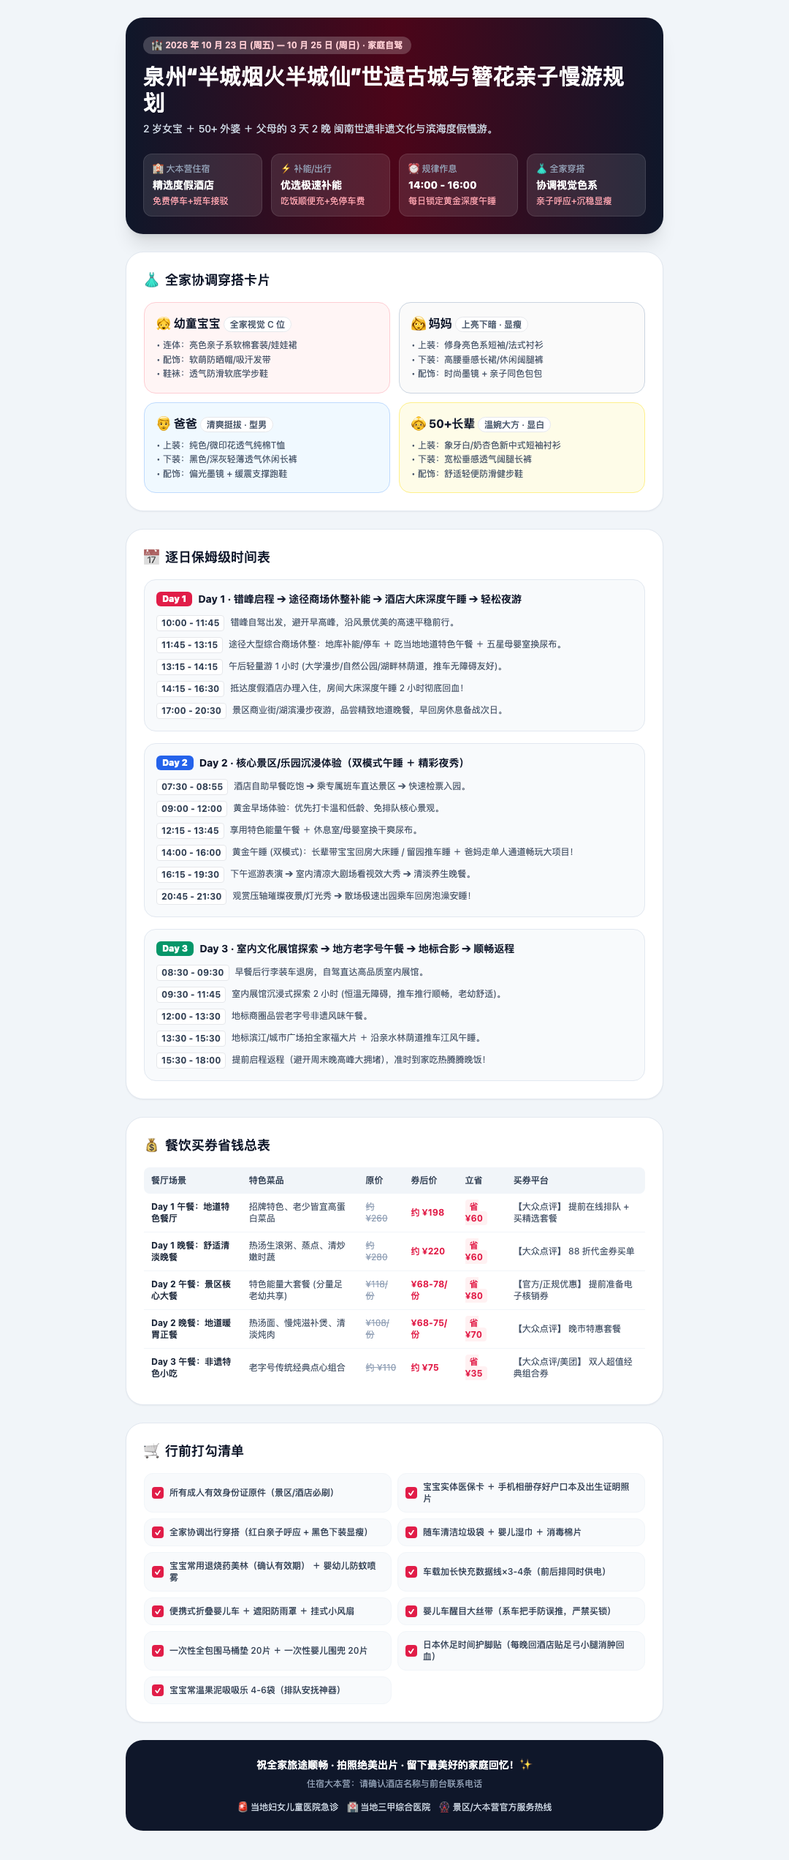
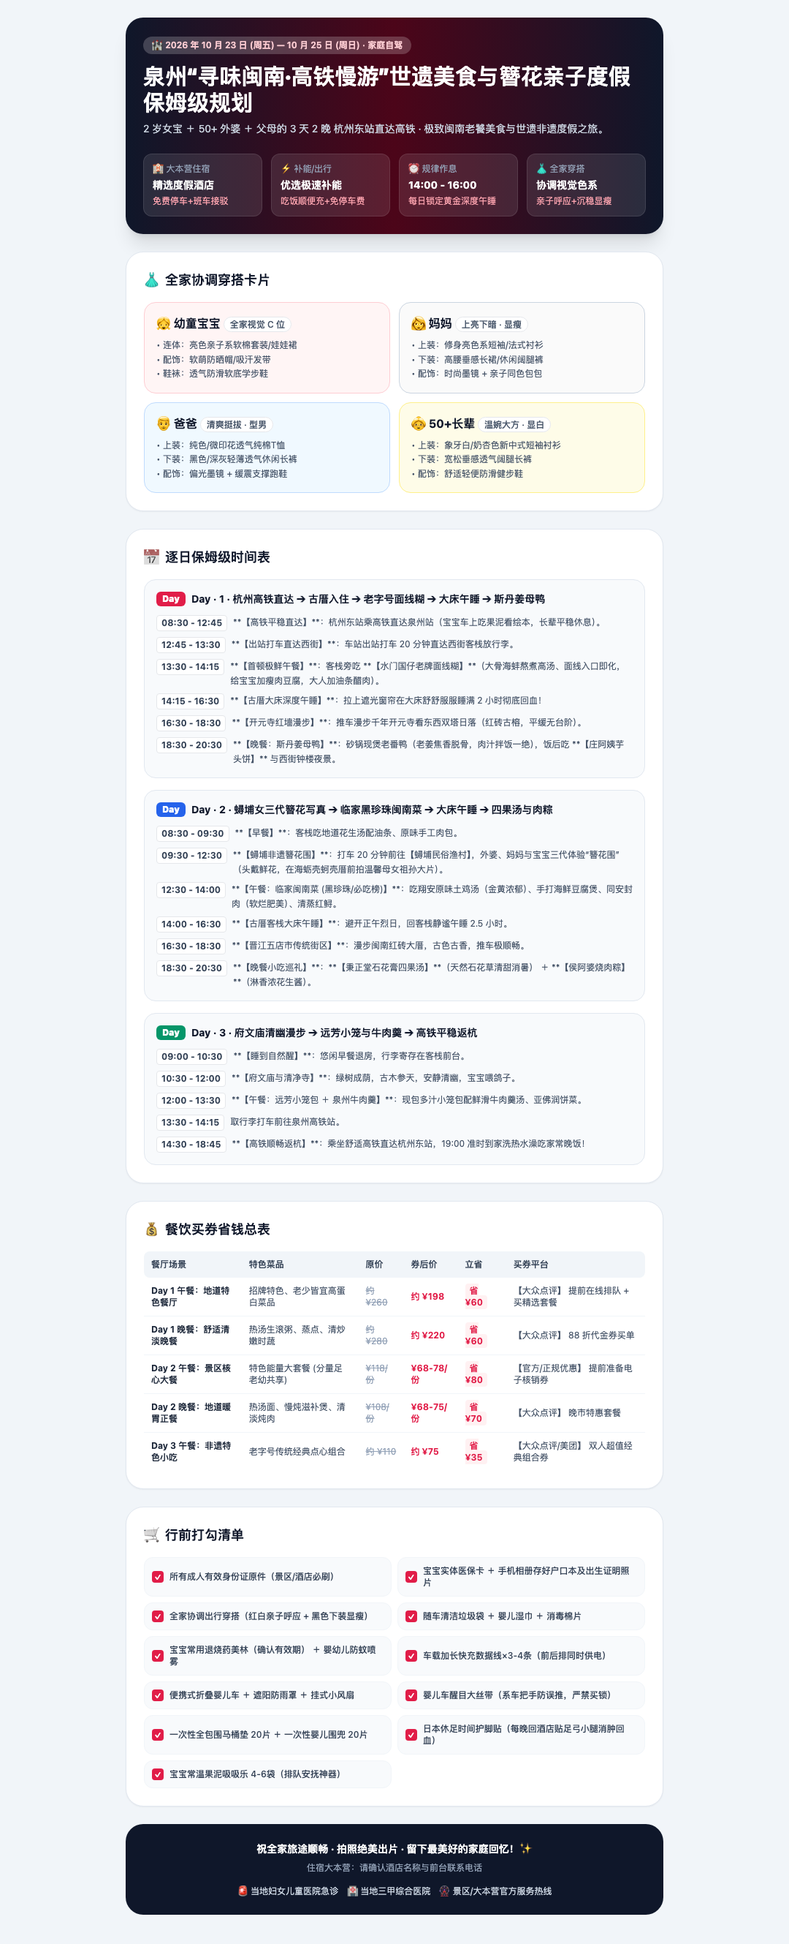
feat: upgrade Quanzhou itinerary to High-Speed Rail and deep Minnan culinary focus

Changed region(s): [[0.1528, 0.0, 0.825, 0.9941], [0.4583, 0.6213, 0.4889, 0.7456], [0.7333, 0.7766, 0.7944, 0.8077]]

diff --git a/dist_quanzhou/index.html b/dist_quanzhou/index.html
@@ -3,7 +3,7 @@
 <head>
 <meta charset="utf-8">
 <meta name="viewport" content="width=device-width, initial-scale=1.0, maximum-scale=1.0, user-scalable=no">
-<title>泉州“半城烟火半城仙”世遗古城与簪花亲子慢游规划</title>
+<title>泉州“寻味闽南·高铁慢游”世遗美食与簪花亲子度假保姆级规划</title>
 <script src="https://cdn.tailwindcss.com"></script>
 <style> body { font-family: -apple-system, BlinkMacSystemFont, "PingFang SC", "Hiragino Sans GB", "Microsoft YaHei", sans-serif; } </style>
 </head>
@@ -11,8 +11,8 @@
   <div class="max-w-3xl mx-auto px-4 pt-6 space-y-6">
     <div class="bg-gradient-to-r from-slate-900 via-rose-950 to-slate-900 text-white rounded-3xl p-6 shadow-xl">
       <span class="inline-block bg-white/20 backdrop-blur px-3 py-1 rounded-full text-xs font-semibold text-rose-200 mb-3">🏰 2026 年 10 月 23 日 (周五) — 10 月 25 日 (周日) · 家庭自驾</span>
-      <h1 class="text-2xl sm:text-3xl font-black mb-2">泉州“半城烟火半城仙”世遗古城与簪花亲子慢游规划</h1>
-      <p class="text-sm text-slate-300 mb-6">2 岁女宝 ＋ 50+ 外婆 ＋ 父母的 3 天 2 晚 闽南世遗非遗文化与滨海度假慢游。</p>
+      <h1 class="text-2xl sm:text-3xl font-black mb-2">泉州“寻味闽南·高铁慢游”世遗美食与簪花亲子度假保姆级规划</h1>
+      <p class="text-sm text-slate-300 mb-6">2 岁女宝 ＋ 50+ 外婆 ＋ 父母的 3 天 2 晚 杭州东站直达高铁 · 极致闽南老饕美食与世遗非遗度假之旅。</p>
       <div class="grid grid-cols-2 sm:grid-cols-4 gap-3"><div class="bg-white/10 rounded-xl p-3 border border-white/10"><div class="text-xs text-slate-400">🏨 大本营住宿</div><div class="text-sm font-bold mt-1 text-white">精选度假酒店</div><div class="text-xs text-rose-300 mt-1">免费停车+班车接驳</div></div><div class="bg-white/10 rounded-xl p-3 border border-white/10"><div class="text-xs text-slate-400">⚡ 补能/出行</div><div class="text-sm font-bold mt-1 text-white">优选极速补能</div><div class="text-xs text-rose-300 mt-1">吃饭顺便充+免停车费</div></div><div class="bg-white/10 rounded-xl p-3 border border-white/10"><div class="text-xs text-slate-400">⏰ 规律作息</div><div class="text-sm font-bold mt-1 text-white">14:00 - 16:00</div><div class="text-xs text-rose-300 mt-1">每日锁定黄金深度午睡</div></div><div class="bg-white/10 rounded-xl p-3 border border-white/10"><div class="text-xs text-slate-400">👗 全家穿搭</div><div class="text-sm font-bold mt-1 text-white">协调视觉色系</div><div class="text-xs text-rose-300 mt-1">亲子呼应+沉稳显瘦</div></div></div>
     </div>
     <div class="bg-white rounded-3xl p-6 shadow-sm border border-slate-200">
@@ -29,7 +29,7 @@
     </div>
     <div class="bg-white rounded-3xl p-6 shadow-sm border border-slate-200">
       <h2 class="text-lg font-bold text-slate-900 mb-4 flex items-center gap-2"><span>📅</span> 逐日保姆级时间表</h2>
-      <div class="space-y-4"><div class="bg-slate-50 p-4 rounded-2xl border border-slate-200"><div class="font-bold text-slate-900 text-sm mb-3 flex items-center gap-2"><span class="text-white text-xs px-2 py-0.5 rounded-md font-black" style="background-color: #E11D48;">Day 1</span><span>Day 1 · 错峰启程 ➔ 途径商场休整补能 ➔ 酒店大床深度午睡 ➔ 轻松夜游</span></div><div class="space-y-2"><div class="flex gap-2 text-xs"><span class="bg-white border text-slate-700 font-bold px-1.5 py-0.5 rounded h-fit whitespace-nowrap">10:00 - 11:45</span><span class="text-slate-600 leading-relaxed">错峰自驾出发，避开早高峰，沿风景优美的高速平稳前行。</span></div><div class="flex gap-2 text-xs"><span class="bg-white border text-slate-700 font-bold px-1.5 py-0.5 rounded h-fit whitespace-nowrap">11:45 - 13:15</span><span class="text-slate-600 leading-relaxed">途径大型综合商场休整：地库补能/停车 ＋ 吃当地地道特色午餐 ＋ 五星母婴室换尿布。</span></div><div class="flex gap-2 text-xs"><span class="bg-white border text-slate-700 font-bold px-1.5 py-0.5 rounded h-fit whitespace-nowrap">13:15 - 14:15</span><span class="text-slate-600 leading-relaxed">午后轻量游 1 小时 (大学漫步/自然公园/湖畔林荫道，推车无障碍友好)。</span></div><div class="flex gap-2 text-xs"><span class="bg-white border text-slate-700 font-bold px-1.5 py-0.5 rounded h-fit whitespace-nowrap">14:15 - 16:30</span><span class="text-slate-600 leading-relaxed">抵达度假酒店办理入住，房间大床深度午睡 2 小时彻底回血！</span></div><div class="flex gap-2 text-xs"><span class="bg-white border text-slate-700 font-bold px-1.5 py-0.5 rounded h-fit whitespace-nowrap">17:00 - 20:30</span><span class="text-slate-600 leading-relaxed">景区商业街/湖滨漫步夜游，品尝精致地道晚餐，早回房休息备战次日。</span></div></div></div><div class="bg-slate-50 p-4 rounded-2xl border border-slate-200"><div class="font-bold text-slate-900 text-sm mb-3 flex items-center gap-2"><span class="text-white text-xs px-2 py-0.5 rounded-md font-black" style="background-color: #2563EB;">Day 2</span><span>Day 2 · 核心景区/乐园沉浸体验（双模式午睡 ＋ 精彩夜秀）</span></div><div class="space-y-2"><div class="flex gap-2 text-xs"><span class="bg-white border text-slate-700 font-bold px-1.5 py-0.5 rounded h-fit whitespace-nowrap">07:30 - 08:55</span><span class="text-slate-600 leading-relaxed">酒店自助早餐吃饱 ➔ 乘专属班车直达景区 ➔ 快速检票入园。</span></div><div class="flex gap-2 text-xs"><span class="bg-white border text-slate-700 font-bold px-1.5 py-0.5 rounded h-fit whitespace-nowrap">09:00 - 12:00</span><span class="text-slate-600 leading-relaxed">黄金早场体验：优先打卡温和低龄、免排队核心景观。</span></div><div class="flex gap-2 text-xs"><span class="bg-white border text-slate-700 font-bold px-1.5 py-0.5 rounded h-fit whitespace-nowrap">12:15 - 13:45</span><span class="text-slate-600 leading-relaxed">享用特色能量午餐 ＋ 休息室/母婴室换干爽尿布。</span></div><div class="flex gap-2 text-xs"><span class="bg-white border text-slate-700 font-bold px-1.5 py-0.5 rounded h-fit whitespace-nowrap">14:00 - 16:00</span><span class="text-slate-600 leading-relaxed">黄金午睡 (双模式)：长辈带宝宝回房大床睡 / 留园推车睡 ＋ 爸妈走单人通道畅玩大项目！</span></div><div class="flex gap-2 text-xs"><span class="bg-white border text-slate-700 font-bold px-1.5 py-0.5 rounded h-fit whitespace-nowrap">16:15 - 19:30</span><span class="text-slate-600 leading-relaxed">下午巡游表演 ➔ 室内清凉大剧场看视效大秀 ➔ 清淡养生晚餐。</span></div><div class="flex gap-2 text-xs"><span class="bg-white border text-slate-700 font-bold px-1.5 py-0.5 rounded h-fit whitespace-nowrap">20:45 - 21:30</span><span class="text-slate-600 leading-relaxed">观赏压轴璀璨夜景/灯光秀 ➔ 散场极速出园乘车回房泡澡安睡！</span></div></div></div><div class="bg-slate-50 p-4 rounded-2xl border border-slate-200"><div class="font-bold text-slate-900 text-sm mb-3 flex items-center gap-2"><span class="text-white text-xs px-2 py-0.5 rounded-md font-black" style="background-color: #059669;">Day 3</span><span>Day 3 · 室内文化展馆探索 ➔ 地方老字号午餐 ➔ 地标合影 ➔ 顺畅返程</span></div><div class="space-y-2"><div class="flex gap-2 text-xs"><span class="bg-white border text-slate-700 font-bold px-1.5 py-0.5 rounded h-fit whitespace-nowrap">08:30 - 09:30</span><span class="text-slate-600 leading-relaxed">早餐后行李装车退房，自驾直达高品质室内展馆。</span></div><div class="flex gap-2 text-xs"><span class="bg-white border text-slate-700 font-bold px-1.5 py-0.5 rounded h-fit whitespace-nowrap">09:30 - 11:45</span><span class="text-slate-600 leading-relaxed">室内展馆沉浸式探索 2 小时 (恒温无障碍，推车推行顺畅，老幼舒适)。</span></div><div class="flex gap-2 text-xs"><span class="bg-white border text-slate-700 font-bold px-1.5 py-0.5 rounded h-fit whitespace-nowrap">12:00 - 13:30</span><span class="text-slate-600 leading-relaxed">地标商圈品尝老字号非遗风味午餐。</span></div><div class="flex gap-2 text-xs"><span class="bg-white border text-slate-700 font-bold px-1.5 py-0.5 rounded h-fit whitespace-nowrap">13:30 - 15:30</span><span class="text-slate-600 leading-relaxed">地标滨江/城市广场拍全家福大片 ＋ 沿亲水林荫道推车江风午睡。</span></div><div class="flex gap-2 text-xs"><span class="bg-white border text-slate-700 font-bold px-1.5 py-0.5 rounded h-fit whitespace-nowrap">15:30 - 18:00</span><span class="text-slate-600 leading-relaxed">提前启程返程（避开周末晚高峰大拥堵），准时到家吃热腾腾晚饭！</span></div></div></div></div>
+      <div class="space-y-4"><div class="bg-slate-50 p-4 rounded-2xl border border-slate-200"><div class="font-bold text-slate-900 text-sm mb-3 flex items-center gap-2"><span class="text-white text-xs px-2 py-0.5 rounded-md font-black" style="background-color: #E11D48;">Day</span><span>Day · 1 · 杭州高铁直达 ➔ 古厝入住 ➔ 老字号面线糊 ➔ 大床午睡 ➔ 斯丹姜母鸭</span></div><div class="space-y-2"><div class="flex gap-2 text-xs"><span class="bg-white border text-slate-700 font-bold px-1.5 py-0.5 rounded h-fit whitespace-nowrap">08:30 - 12:45</span><span class="text-slate-600 leading-relaxed">**【高铁平稳直达】**：杭州东站乘高铁直达泉州站（宝宝车上吃果泥看绘本，长辈平稳休息）。</span></div><div class="flex gap-2 text-xs"><span class="bg-white border text-slate-700 font-bold px-1.5 py-0.5 rounded h-fit whitespace-nowrap">12:45 - 13:30</span><span class="text-slate-600 leading-relaxed">**【出站打车直达西街】**：车站出站打车 20 分钟直达西街客栈放行李。</span></div><div class="flex gap-2 text-xs"><span class="bg-white border text-slate-700 font-bold px-1.5 py-0.5 rounded h-fit whitespace-nowrap">13:30 - 14:15</span><span class="text-slate-600 leading-relaxed">**【首顿极鲜午餐】**：客栈旁吃 **【水门国仔老牌面线糊】**（大骨海蚌熬煮高汤、面线入口即化，给宝宝加瘦肉豆腐，大人加油条醋肉）。</span></div><div class="flex gap-2 text-xs"><span class="bg-white border text-slate-700 font-bold px-1.5 py-0.5 rounded h-fit whitespace-nowrap">14:15 - 16:30</span><span class="text-slate-600 leading-relaxed">**【古厝大床深度午睡】**：拉上遮光窗帘在大床舒舒服服睡满 2 小时彻底回血！</span></div><div class="flex gap-2 text-xs"><span class="bg-white border text-slate-700 font-bold px-1.5 py-0.5 rounded h-fit whitespace-nowrap">16:30 - 18:30</span><span class="text-slate-600 leading-relaxed">**【开元寺红墙漫步】**：推车漫步千年开元寺看东西双塔日落（红砖古榕，平缓无台阶）。</span></div><div class="flex gap-2 text-xs"><span class="bg-white border text-slate-700 font-bold px-1.5 py-0.5 rounded h-fit whitespace-nowrap">18:30 - 20:30</span><span class="text-slate-600 leading-relaxed">**【晚餐：斯丹姜母鸭】**：砂锅现煲老番鸭（老姜焦香脱骨，肉汁拌饭一绝），饭后吃 **【庄阿姨芋头饼】** 与西街钟楼夜景。</span></div></div></div><div class="bg-slate-50 p-4 rounded-2xl border border-slate-200"><div class="font-bold text-slate-900 text-sm mb-3 flex items-center gap-2"><span class="text-white text-xs px-2 py-0.5 rounded-md font-black" style="background-color: #2563EB;">Day</span><span>Day · 2 · 蟳埔女三代簪花写真 ➔ 临家黑珍珠闽南菜 ➔ 大床午睡 ➔ 四果汤与肉粽</span></div><div class="space-y-2"><div class="flex gap-2 text-xs"><span class="bg-white border text-slate-700 font-bold px-1.5 py-0.5 rounded h-fit whitespace-nowrap">08:30 - 09:30</span><span class="text-slate-600 leading-relaxed">**【早餐】**：客栈吃地道花生汤配油条、原味手工肉包。</span></div><div class="flex gap-2 text-xs"><span class="bg-white border text-slate-700 font-bold px-1.5 py-0.5 rounded h-fit whitespace-nowrap">09:30 - 12:30</span><span class="text-slate-600 leading-relaxed">**【蟳埔非遗簪花围】**：打车 20 分钟前往【蟳埔民俗渔村】，外婆、妈妈与宝宝三代体验“簪花围”（头戴鲜花，在海蛎壳蚵壳厝前拍温馨母女祖孙大片）。</span></div><div class="flex gap-2 text-xs"><span class="bg-white border text-slate-700 font-bold px-1.5 py-0.5 rounded h-fit whitespace-nowrap">12:30 - 14:00</span><span class="text-slate-600 leading-relaxed">**【午餐：临家闽南菜 (黑珍珠/必吃榜)】**：吃翔安原味土鸡汤（金黄浓郁）、手打海鲜豆腐煲、同安封肉（软烂肥美）、清蒸红鲟。</span></div><div class="flex gap-2 text-xs"><span class="bg-white border text-slate-700 font-bold px-1.5 py-0.5 rounded h-fit whitespace-nowrap">14:00 - 16:30</span><span class="text-slate-600 leading-relaxed">**【古厝客栈大床午睡】**：避开正午烈日，回客栈静谧午睡 2.5 小时。</span></div><div class="flex gap-2 text-xs"><span class="bg-white border text-slate-700 font-bold px-1.5 py-0.5 rounded h-fit whitespace-nowrap">16:30 - 18:30</span><span class="text-slate-600 leading-relaxed">**【晋江五店市传统街区】**：漫步闽南红砖大厝，古色古香，推车极顺畅。</span></div><div class="flex gap-2 text-xs"><span class="bg-white border text-slate-700 font-bold px-1.5 py-0.5 rounded h-fit whitespace-nowrap">18:30 - 20:30</span><span class="text-slate-600 leading-relaxed">**【晚餐小吃巡礼】**：**【秉正堂石花膏四果汤】**（天然石花草清甜消暑） ＋ **【侯阿婆烧肉粽】**（淋香浓花生酱）。</span></div></div></div><div class="bg-slate-50 p-4 rounded-2xl border border-slate-200"><div class="font-bold text-slate-900 text-sm mb-3 flex items-center gap-2"><span class="text-white text-xs px-2 py-0.5 rounded-md font-black" style="background-color: #059669;">Day</span><span>Day · 3 · 府文庙清幽漫步 ➔ 远芳小笼与牛肉羹 ➔ 高铁平稳返杭</span></div><div class="space-y-2"><div class="flex gap-2 text-xs"><span class="bg-white border text-slate-700 font-bold px-1.5 py-0.5 rounded h-fit whitespace-nowrap">09:00 - 10:30</span><span class="text-slate-600 leading-relaxed">**【睡到自然醒】**：悠闲早餐退房，行李寄存在客栈前台。</span></div><div class="flex gap-2 text-xs"><span class="bg-white border text-slate-700 font-bold px-1.5 py-0.5 rounded h-fit whitespace-nowrap">10:30 - 12:00</span><span class="text-slate-600 leading-relaxed">**【府文庙与清净寺】**：绿树成荫，古木参天，安静清幽，宝宝喂鸽子。</span></div><div class="flex gap-2 text-xs"><span class="bg-white border text-slate-700 font-bold px-1.5 py-0.5 rounded h-fit whitespace-nowrap">12:00 - 13:30</span><span class="text-slate-600 leading-relaxed">**【午餐：远芳小笼包 ＋ 泉州牛肉羹】**：现包多汁小笼包配鲜滑牛肉羹汤、亚佛润饼菜。</span></div><div class="flex gap-2 text-xs"><span class="bg-white border text-slate-700 font-bold px-1.5 py-0.5 rounded h-fit whitespace-nowrap">13:30 - 14:15</span><span class="text-slate-600 leading-relaxed">取行李打车前往泉州高铁站。</span></div><div class="flex gap-2 text-xs"><span class="bg-white border text-slate-700 font-bold px-1.5 py-0.5 rounded h-fit whitespace-nowrap">14:30 - 18:45</span><span class="text-slate-600 leading-relaxed">**【高铁顺畅返杭】**：乘坐舒适高铁直达杭州东站，19:00 准时到家洗热水澡吃家常晚饭！</span></div></div></div></div>
     </div>
     <div class="bg-white rounded-3xl p-6 shadow-sm border border-slate-200 overflow-x-auto">
       <h2 class="text-lg font-bold text-slate-900 mb-4 flex items-center gap-2"><span>💰</span> 餐饮买券省钱总表</h2>

diff --git a/examples/quanzhou_minnan_heritage.md b/examples/quanzhou_minnan_heritage.md
@@ -1,21 +1,49 @@
-# 泉州“半城烟火半城仙”世遗古城与簪花亲子慢游规划
+# 泉州“寻味闽南·高铁慢游”世遗美食与簪花亲子度假保姆级规划
 
-> **规划定位**：2 岁女宝 ＋ 50+ 外婆 ＋ 父母的 3 天 2 晚 闽南世遗非遗文化与滨海度假慢游。
-> **核心原则**：不赶庙宇、平缓石板路推车、蟳埔女三代簪花写真、每日 13:30—16:00 闽南古厝客栈大床午睡、老少皆宜面线糊姜母鸭。
+> **规划定位**：2 岁女宝 ＋ 50+ 外婆 ＋ 父母的 3 天 2 晚 杭州东站直达高铁 · 极致闽南老饕美食与世遗非遗度假之旅。
+> **核心原则**：高铁零驾驶疲劳、全城打车无缝推车、沉浸式老饕美食巡礼、蟳埔女三代簪花写真、每日 13:30—16:00 古厝大床午睡。
 > **行程日期**：2026 年 10 月 23 日 (周五) — 10 月 25 日 (周日)
 
 ## 一、行前关键节点与准备时间表
-- D-20：预订西街/开元寺周边高品质闽南红砖古厝客栈（带独立安静庭院，提前备注婴儿床与温奶器）。
-- D-7：大众点评预订蟳埔村非遗簪花馆（避开拉客排队，预约手艺老阿婆三代簪花摄影）。
-- D-2：大众点评收藏开元寺面线糊、斯丹姜母鸭、秉正堂石花膏（查看老幼适口菜品）。
-- D-1 晚上：电车在泉州充电桩补能规划 / 租车自驾检查（带便携折叠婴儿推车）。
+- D-15 准点：12306 抢购【杭州东 ➔ 泉州】直达高铁票（首选 G1653 08:30-12:45，约4小时，选连排靠窗大座）。
+- D-15：预订西街核心区高品质闽南红砖古厝客栈（带独立安静庭院，提前备注婴儿床与恒温热水壶）。
+- D-7：大众点评预约蟳埔村老阿婆非遗簪花馆（避开拉客排队，预约老手艺人三代簪花摄影）。
+- D-2：大众点评收藏开元寺面线糊、斯丹姜母鸭、临家闽南菜、秉正堂石花膏（提前了解老幼适口招牌菜）。
+- D-1 晚上：高铁随身包准备（宝宝常温果泥、贴纸玩具、折叠推车，成人身份证原件）。
 
-## 二、逐日保姆级时间表
-- **Day 1**：抵达泉州 ➔ 入住西街红砖古厝客栈 ➔ 11:30 水门国仔老牌面线糊午餐 (汤头鲜浓软烂，宝宝吃一大碗) ➔ 13:30-16:00 古厝大床静谧午睡 ➔ 16:30 漫步西街与开元寺红墙 (看双塔日落，推车平缓无阶梯) ➔ 晚餐吃斯丹姜母鸭配白米饭 ➔ 钟楼夜景散步。
-- **Day 2**：客栈精致闽南早点 ➔ 09:30 自驾 25 分钟前往【蟳埔民俗渔村】 ➔ 外婆、妈妈与宝宝祖孙三代体验“非遗簪花围”（头戴鲜花花环，红砖海蛎壳蚵壳厝前拍温馨大片） ➔ 12:30 晋江五店市传统街区午餐 (临家闽南菜) ➔ 14:00-16:00 客栈大床深度午睡 ➔ 16:30 洛阳桥红树林木栈道看白鹭飞翔 ➔ 晚餐秉正堂四果汤 ＋ 侯阿婆肉粽。
-- **Day 3**：睡到自然醒 ➔ 09:30 府文庙与清净寺漫步 (绿树成荫，安静雅致) ➔ 12:00 远芳小笼包与牛肉羹午餐 ➔ 13:30 顺路前往崇武古城海滨沙滩轻量踩水 ➔ 15:30 顺畅前往机场/高铁站返程。
+## 二、逐日保姆级时间表（高铁出行 · 极致美食动线）
 
-## 三、特色美食与省钱优惠
-- **宝宝吃**：水门国仔面线糊（加醋肉、瘦肉、嫩豆腐，鲜甜软烂无刺）、润饼菜（软嫩蔬菜卷）、原味花生汤。
-- **外婆吃**：临家闽南菜原味土鸡煲、清蒸红鲟海鲜、地道安溪铁观音功夫热茶（暖胃舒心）。
-- **爸妈吃**：斯丹姜母鸭（焦香生姜片裹着嫩鸭肉，浓郁下饭）、石花膏四果汤（清凉解暑）、阿山姜母鸭。
+### Day 1 · 杭州高铁直达 ➔ 古厝入住 ➔ 老字号面线糊 ➔ 大床午睡 ➔ 斯丹姜母鸭
+- **08:30 - 12:45** ｜ **【高铁平稳直达】**：杭州东站乘高铁直达泉州站（宝宝车上吃果泥看绘本，长辈平稳休息）。
+- **12:45 - 13:30** ｜ **【出站打车直达西街】**：车站出站打车 20 分钟直达西街客栈放行李。
+- **13:30 - 14:15** ｜ **【首顿极鲜午餐】**：客栈旁吃 **【水门国仔老牌面线糊】**（大骨海蚌熬煮高汤、面线入口即化，给宝宝加瘦肉豆腐，大人加油条醋肉）。
+- **14:15 - 16:30** ｜ **【古厝大床深度午睡】**：拉上遮光窗帘在大床舒舒服服睡满 2 小时彻底回血！
+- **16:30 - 18:30** ｜ **【开元寺红墙漫步】**：推车漫步千年开元寺看东西双塔日落（红砖古榕，平缓无台阶）。
+- **18:30 - 20:30** ｜ **【晚餐：斯丹姜母鸭】**：砂锅现煲老番鸭（老姜焦香脱骨，肉汁拌饭一绝），饭后吃 **【庄阿姨芋头饼】** 与西街钟楼夜景。
+
+### Day 2 · 蟳埔女三代簪花写真 ➔ 临家黑珍珠闽南菜 ➔ 大床午睡 ➔ 四果汤与肉粽
+- **08:30 - 09:30** ｜ **【早餐】**：客栈吃地道花生汤配油条、原味手工肉包。
+- **09:30 - 12:30** ｜ **【蟳埔非遗簪花围】**：打车 20 分钟前往【蟳埔民俗渔村】，外婆、妈妈与宝宝三代体验“簪花围”（头戴鲜花，在海蛎壳蚵壳厝前拍温馨母女祖孙大片）。
+- **12:30 - 14:00** ｜ **【午餐：临家闽南菜 (黑珍珠/必吃榜)】**：吃翔安原味土鸡汤（金黄浓郁）、手打海鲜豆腐煲、同安封肉（软烂肥美）、清蒸红鲟。
+- **14:00 - 16:30** ｜ **【古厝客栈大床午睡】**：避开正午烈日，回客栈静谧午睡 2.5 小时。
+- **16:30 - 18:30** ｜ **【晋江五店市传统街区】**：漫步闽南红砖大厝，古色古香，推车极顺畅。
+- **18:30 - 20:30** ｜ **【晚餐小吃巡礼】**：**【秉正堂石花膏四果汤】**（天然石花草清甜消暑） ＋ **【侯阿婆烧肉粽】**（淋香浓花生酱）。
+
+### Day 3 · 府文庙清幽漫步 ➔ 远芳小笼与牛肉羹 ➔ 高铁平稳返杭
+- **09:00 - 10:30** ｜ **【睡到自然醒】**：悠闲早餐退房，行李寄存在客栈前台。
+- **10:30 - 12:00** ｜ **【府文庙与清净寺】**：绿树成荫，古木参天，安静清幽，宝宝喂鸽子。
+- **12:00 - 13:30** ｜ **【午餐：远芳小笼包 ＋ 泉州牛肉羹】**：现包多汁小笼包配鲜滑牛肉羹汤、亚佛润饼菜。
+- **13:30 - 14:15** ｜ 取行李打车前往泉州高铁站。
+- **14:30 - 18:45** ｜ **【高铁顺畅返杭】**：乘坐舒适高铁直达杭州东站，19:00 准时到家洗热水澡吃家常晚饭！
+
+## 三、老幼老饕美食精准点单指南
+- **👶 宝宝吃（软烂无刺、高蛋白极鲜）**：
+  - 水门国仔面线糊（加瘦肉、豆腐、猪血，汤底鲜甜软烂）；
+  - 临家手打海鲜豆腐煲 ＋ 翔安原味土鸡汤泡饭；
+  - 远芳鲜肉小笼包（皮薄馅嫩） ＋ 润饼菜（蔬菜软嫩）。
+- **👵 50+ 外婆吃（清淡温热、滋补养生）**：
+  - 清蒸深海大红鲟（肉质极清甜） ＋ 同安封肉；
+  - 慢熬花生汤（香浓温润） ＋ 品安溪特级铁观音功夫茶（消食暖胃）。
+- **👨👩 爸妈吃（焦香浓郁、地道海派过瘾）**：
+  - 斯丹姜母鸭（麻油老姜焦香四溢，拌饭神器）；
+  - 泉州炸醋肉（酸甜酥脆） ＋ 侯阿婆烧肉粽配浓花生酱 ＋ 秉正堂石花膏四果汤。
